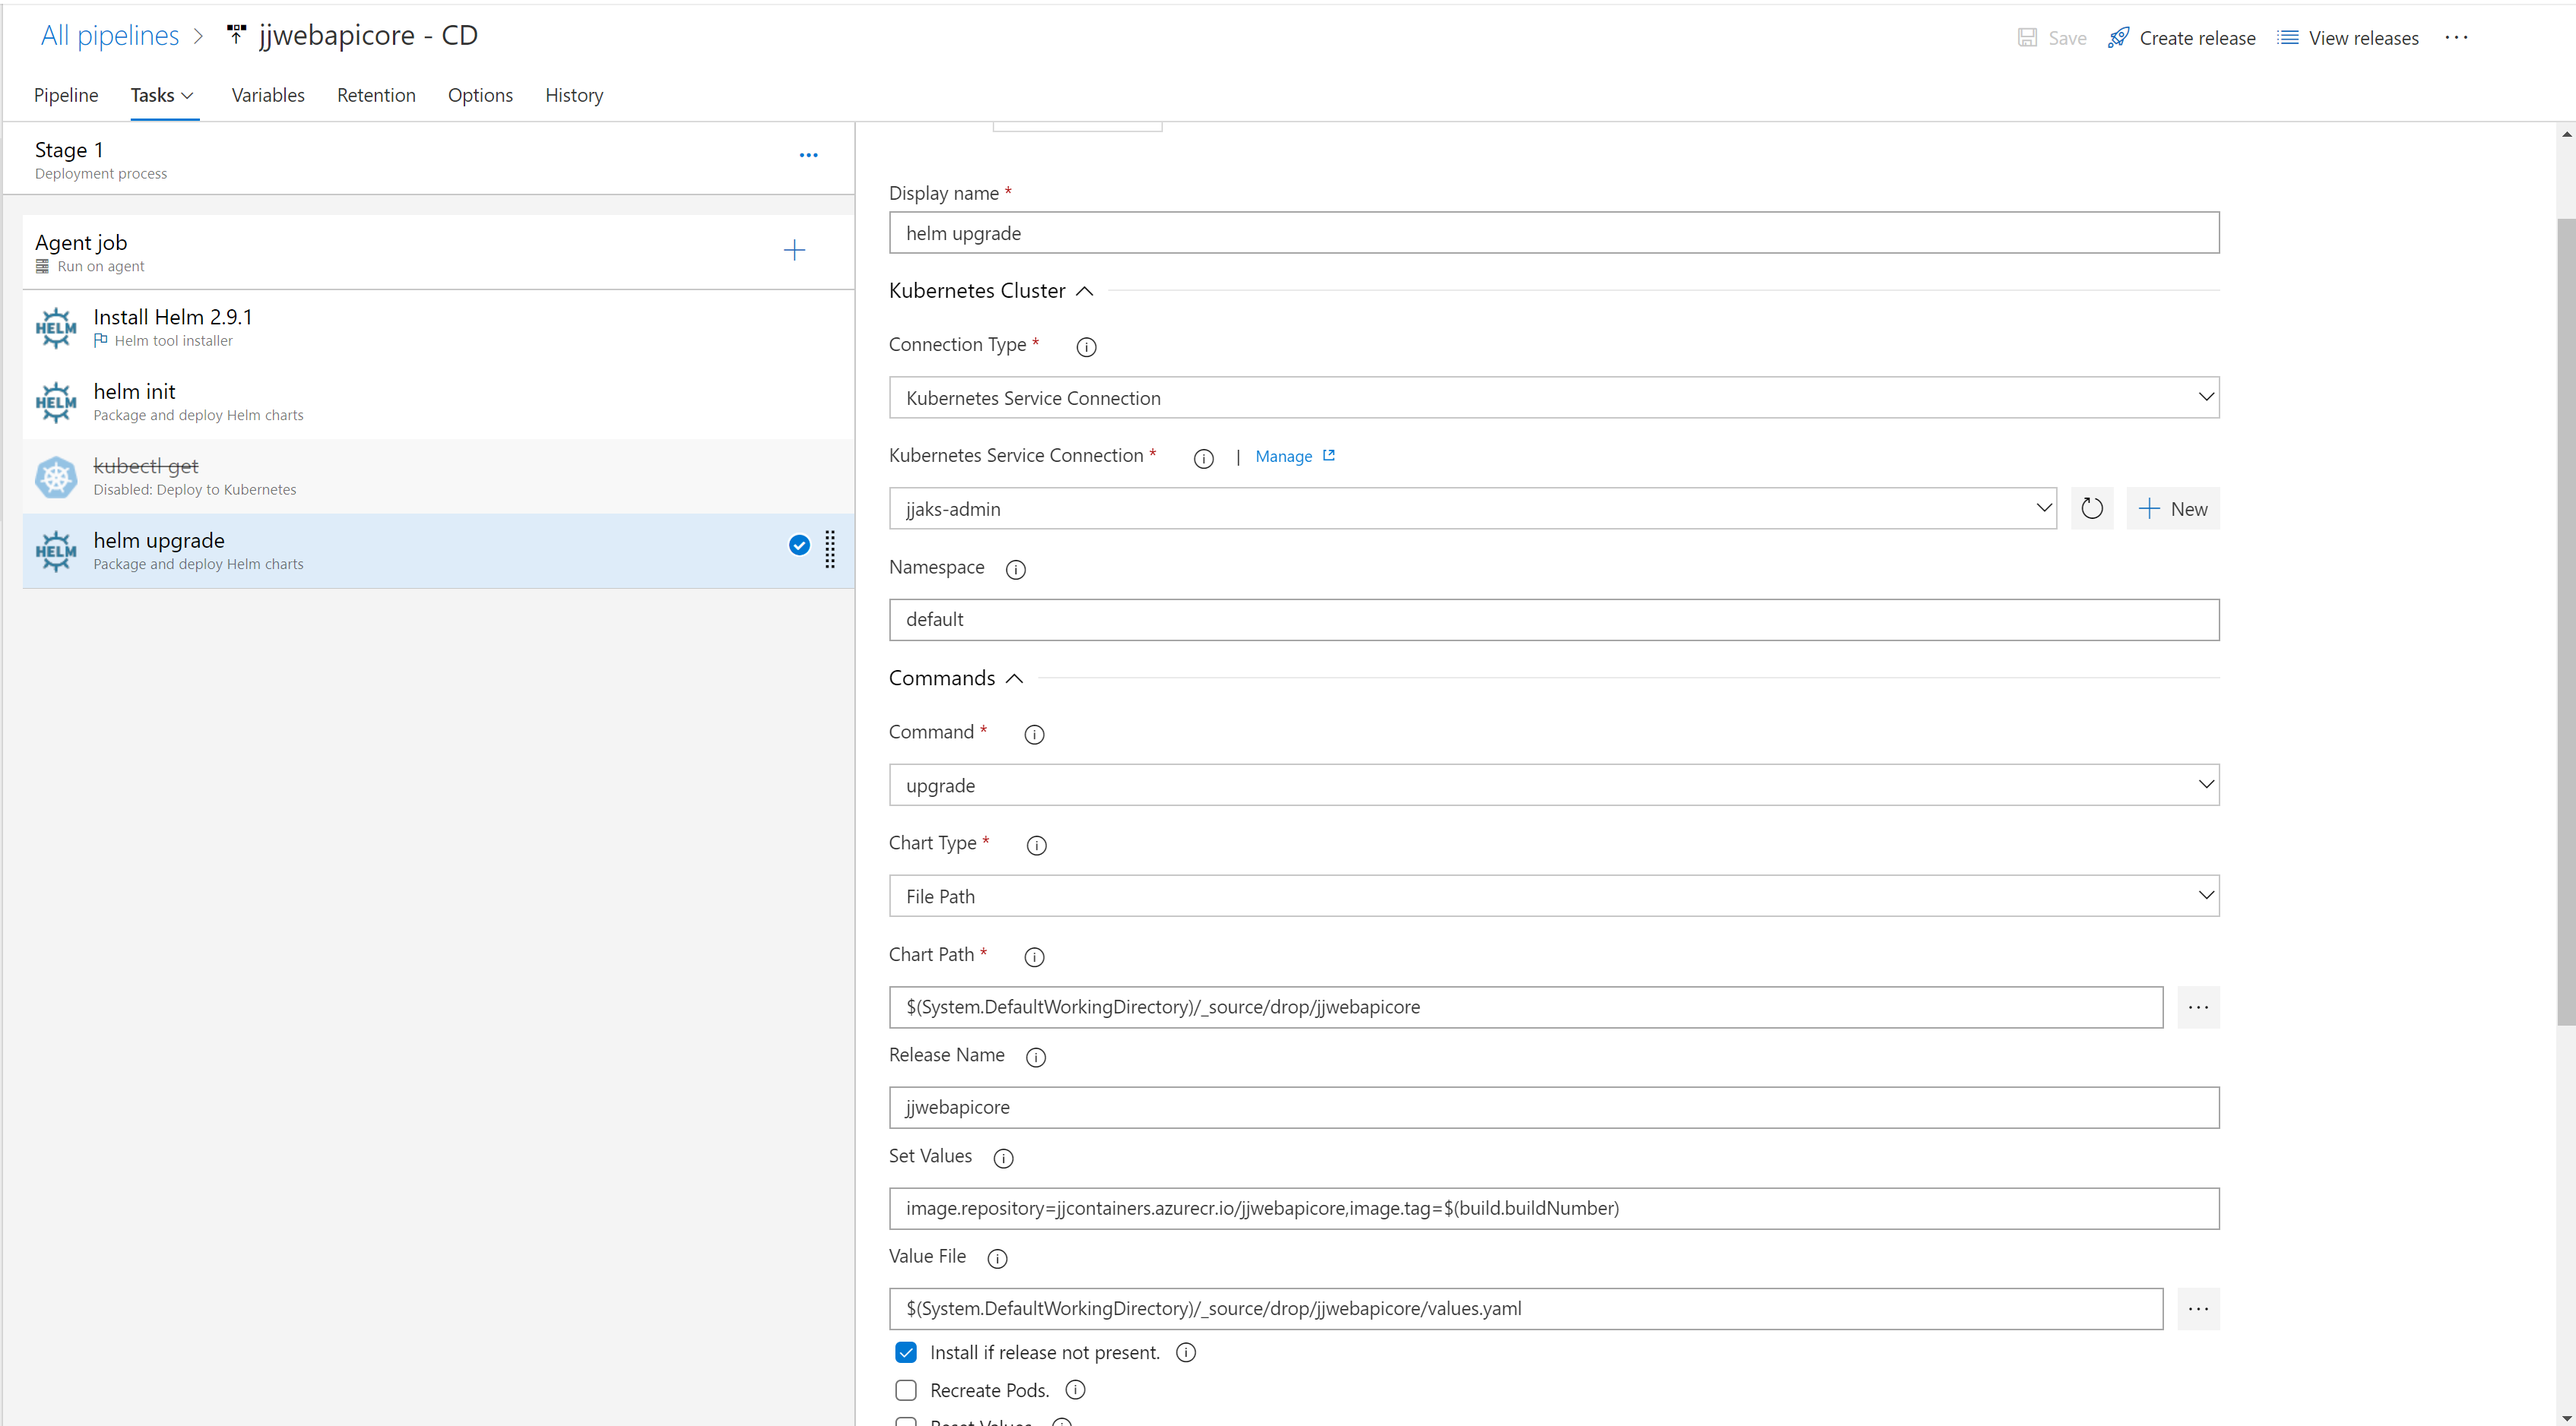
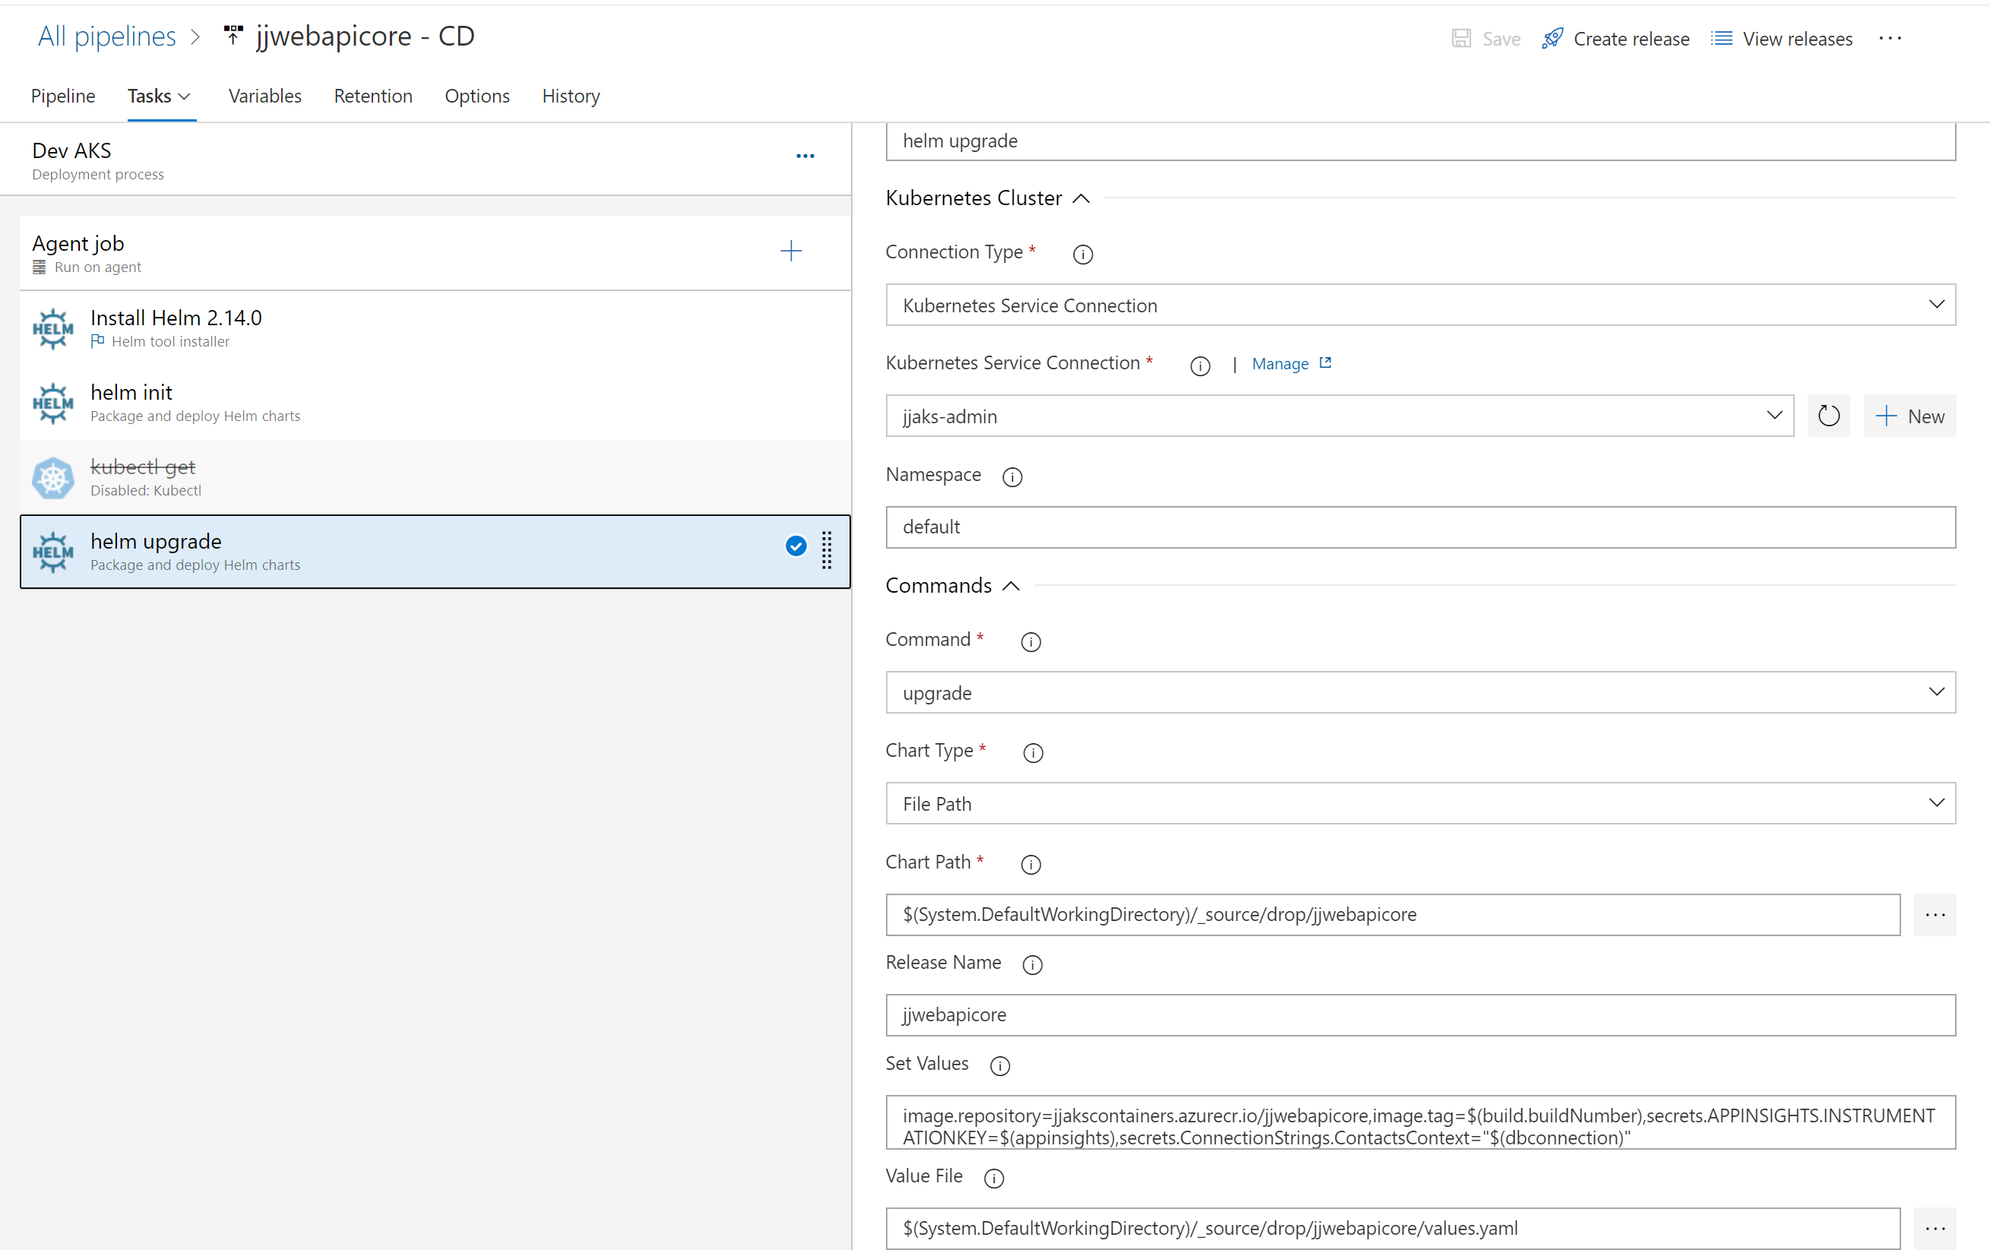
docs

diff --git a/src-webapi/README.md b/src-webapi/README.md
@@ -117,9 +117,25 @@ az aks get-credentials -n $aksname -g jjmicroservices-rg --admin
 cat ~/.kube/config
 ```
 
+Create variables in pipeline
+
+- Application Insights
+- SQL Connection string
+
+![DevOps CD pipeline variables](media/devops-cd-variables.png)
+
+Create pipeline tasks with Ubuntu agent
+
+- install helm
+- helm init
+- helm upgrade
+
 ![DevOps CD pipeline](media/devops-cd.png)
 
 ```yaml
+#Your build pipeline references a secret variable named ‘appinsights’. Create or edit the build pipeline for this YAML file, define the variable on the Variables tab, and then select the option to make it secret. See https://go.microsoft.com/fwlink/?linkid=865972
+#Your build pipeline references a secret variable named ‘dbconnection’. Create or edit the build pipeline for this YAML file, define the variable on the Variables tab, and then select the option to make it secret. See https://go.microsoft.com/fwlink/?linkid=865972
+
 steps:
 - task: HelmDeploy@0
   displayName: 'helm upgrade'
@@ -131,7 +147,7 @@ steps:
     chartType: FilePath
     chartPath: '$(System.DefaultWorkingDirectory)/_source/drop/jjwebapicore'
     releaseName: jjwebapicore
-    overrideValues: 'image.repository=jjcontainers.azurecr.io/jjwebapicore,image.tag=$(build.buildNumber)'
+    overrideValues: 'image.repository=jjakscontainers.azurecr.io/jjwebapicore,image.tag=$(build.buildNumber),secrets.APPINSIGHTS.INSTRUMENTATIONKEY=$(appinsights),secrets.ConnectionStrings.ContactsContext="$(dbconnection)"'
     valueFile: '$(System.DefaultWorkingDirectory)/_source/drop/jjwebapicore/values.yaml'
     waitForExecution: false
 ```
